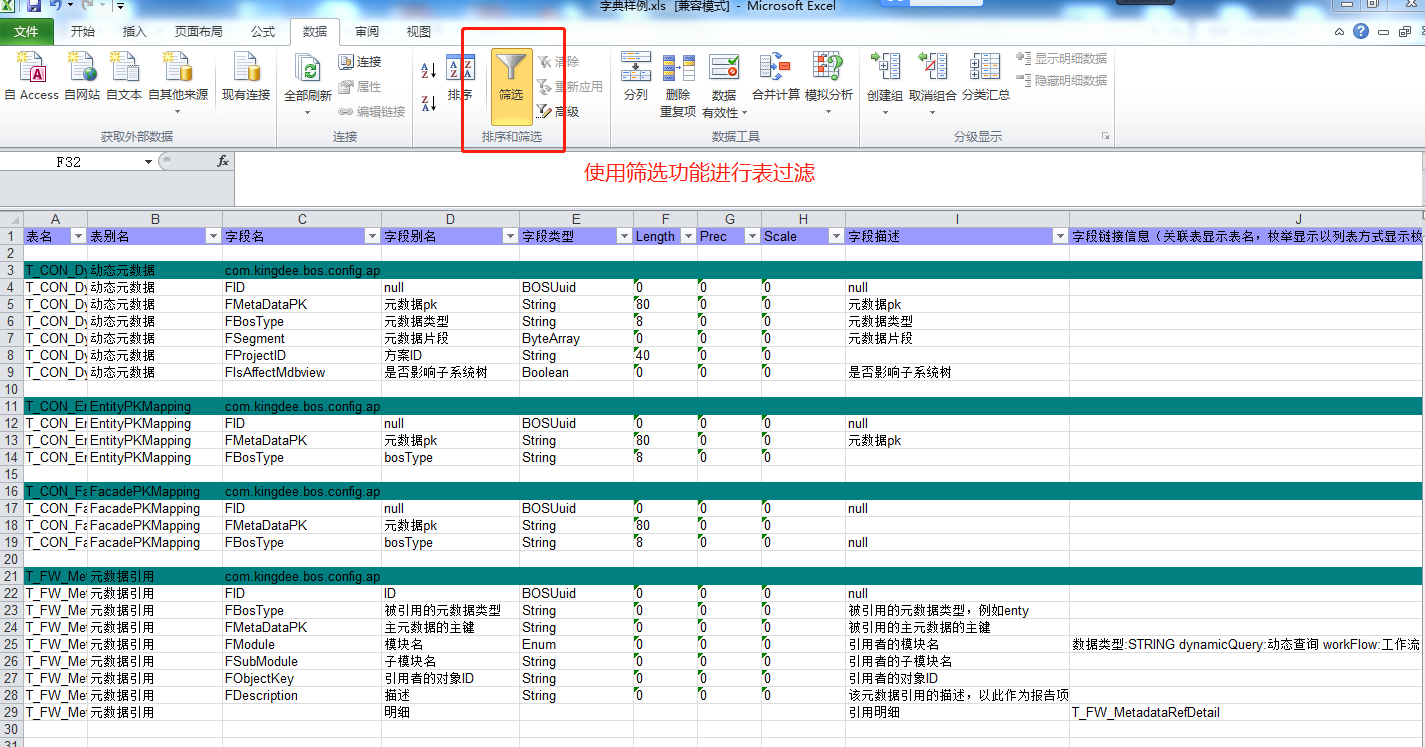
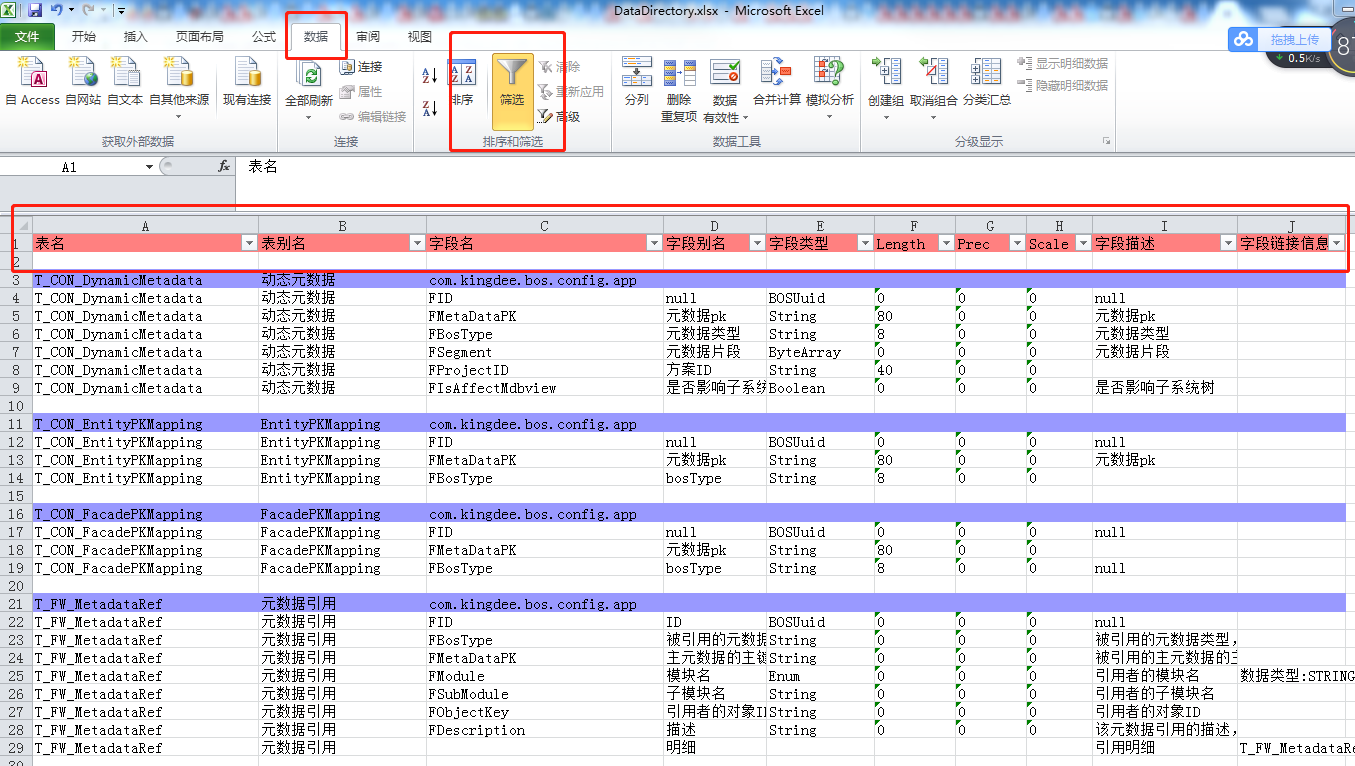
修正工具说明

diff --git a/README.MD b/README.MD
@@ -6,6 +6,8 @@
 本工具可根据EAS服务器中的元数据文件，获得数据表的元数据信息，并导出到Excel中生成数据字典。</br>
 * [DataDirToolV1.1](https://github.com/maobuji/DataDirTool/releases/download/1.0/DataDirTool1.0.zip)
 
+可使用Excel的数据筛选功能，查看自己关注的数据表
+![image](./doc/demo.png)
 
 ##使用说明
 
